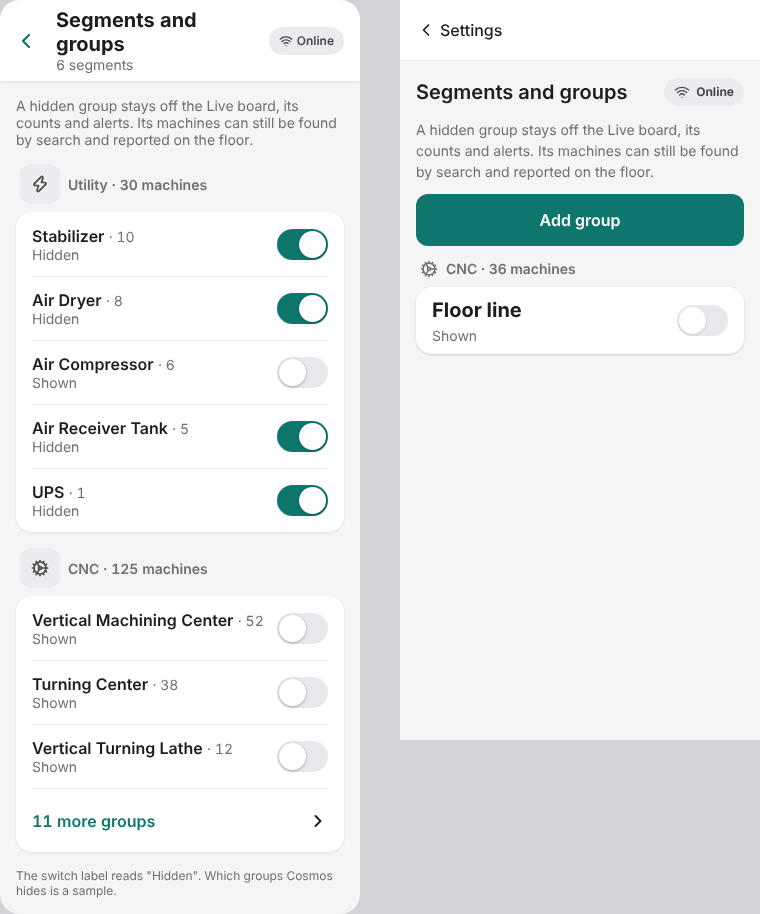
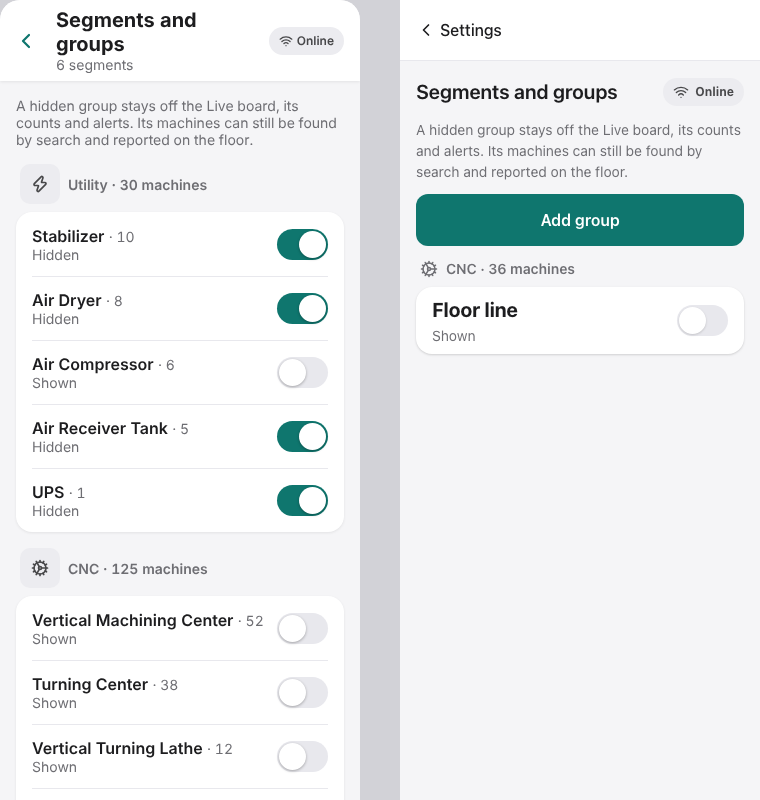
22: side-by-side evidence recaptured from the fixed HEAD

diff --git a/changes/258-plant-settings-screens.md b/changes/258-plant-settings-screens.md
@@ -1,1 +1,5 @@
 - An admin or head can now edit machines (cell, segment, criticality, status), hide or show groups and add or switch off shifts on new settings screens at `/settings/machines`, `/settings/groups` and `/settings/shifts`. On a phone it is a list with an edit sheet; at 1024 px and wider it is a sortable table, a left menu and an edit side panel. A cell change says it will be dated today and keeps past tickets in the old cell. All three screens are one `CrudPage` configuration each, so the lists, glossary, company and people screens reuse it.
+
+- A new machine starts at criticality B (a stored null reads as B too), so no row says "Not set" unless someone sets it. A row says its cell once ("Cell 6"), whether the plant stored "6" or an older "Cell-6". The settings left menu has the desk (Open, Live) beside the plant pages, and the phone settings home links back to the desk.
+- Side-by-side evidence in `docs/slices/22-side-by-side/` is recaptured from the fixed HEAD: the build half on the right shows the edit sheet open at 360 px and the edit side panel open at 1440 px, light and dark; the mockup half on the left is the approved frame already in that folder. The 360 machines pair shows the first 16 rows (the mockup's own height); the list itself is unchanged below that.
+- Not added: the approved left menu's Admin group (People and logins, Audit trail) — those screens and routes are tickets 23 and the audit ticket, so linking them now would land on the floor fallback.
